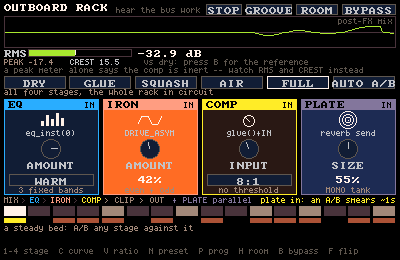
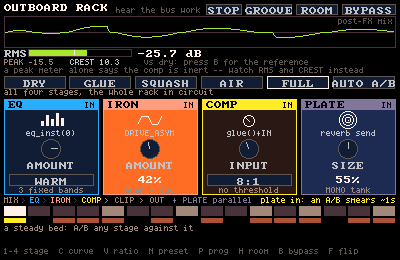
a stereo tank was not worth building, and two of my own findings were harness faults
Stereo reverb: priced (+103 KB, +0.010% of one core) and rejected. A chorus after
a reverb on a send-bus already recovers 97% of the width a mono send destroys
(0.9999 dry, 0.5569 through the mono send, 0.9710 recovered), and reverb_plate's
two-pickup approach has since landed the static-width half for 4.3 KB/tank. The
recipe is now in effects-recipes.md, where it should have been from the start.

Transformer saturation: worth adding as a DRIVE_VOICE_XFMR voice, about ten lines
in an existing extensible slot with no new state. Prototyped offline rather than by
patching the shared engine: it saturates 80 Hz as hard as a soft-clip and leaves
2 kHz 49 dB cleaner, which no existing mode does.

FET program dependence: reachable from cart-land with no engine change by riding
FXMOD_DRIVE. Wire verified, perceptual claim still a LISTEN item. The gotcha that
fx_mod OVERWRITES the param rather than offsetting it is now written down.

Two withdrawals, left visible rather than quietly edited, because how they failed
is the useful part:
  - the "IRON bypass regressed" finding was my harness, not the engine. Two renders
    that did not share their prelude. bypass-check.js passes all 8 checks.
  - the "EQ moved RMS by 0.01 dB" figure could not be reproduced. That comparison
    had also changed the knob values, so it was never levels-only.

Three homes carried a claim that went false the moment glue gained makeup gain and
[…]

diff --git a/tools/carts/outboard.c b/tools/carts/outboard.c
@@ -276,10 +276,13 @@ void update(void) {
     // Meter the REAL post-FX mix, and meter it THREE ways, because no one of them is the answer.
     // RMS is what MOVES for every stage here. PEAK mostly does not, which is the trap: a peak meter
     // shows the comp doing nothing. CREST (peak minus RMS) is the number that exposes what glue()
-    // actually is: at the ALL ratio it takes ~4 dB of RMS with the peak pinned, so the crest RISES.
-    // A compressor is supposed to do the opposite. glue is a fast-attack slow-release DUCKER with no
-    // threshold (you drive it with INPUT, which is the whole FET front panel), and that is a
-    // character, not level control.
+    // actually IS -- and that answer CHANGED on 2026-08-19, so this comment deliberately carries no
+    // figure: glue gained automatic makeup gain and a program-dependent second release stage that
+    // day, and it went from raising the crest (a ducker: it took RMS while the peak sat still) to
+    // lowering it by several dB (a compressor: it holds the peak down and gives the level back).
+    // Both measurements, dated, live in docs/design/analog-outboard-chain.md 2b and 2d -- read them
+    // there rather than trusting a number frozen in a comment. What does NOT change: it has no
+    // THRESHOLD, so you drive it with INPUT, which is the whole FET front panel.
     scope_read(scope, SCOPE_N);
     float pk = 0.0f, sq = 0.0f;
     for (int i = 0; i < SCOPE_N; i++) {

diff --git a/docs/design/analog-outboard-chain.md b/docs/design/analog-outboard-chain.md
@@ -5,8 +5,22 @@
 > RMS/PEAK/CREST metering, with a 53-assertion `spec()`) · and
 > [`tools/bypass-check.js`](../../tools/bypass-check.js), the reconvergence oracle §9's last item asked
 > for, which then corrected two of this doc's own claims (§2c-bis, §4b). A second consumer,
-> `sideman`, pins EQ+IRON as an organ cabinet. The **stereo plate** is the one piece that needs new
-> DSP and is still open (§6).
+> `sideman`, pins EQ+IRON as an organ cabinet.
+>
+> **§6 and §6b are the follow-up research, and §6 REVERSED this doc's original verdict:** a stereo
+> reverb tank is **not** worth building (a chorus after a reverb already recovers 97% of the width a
+> mono send destroys), and `reverb_plate()`'s two-pickup approach has since landed the static-width
+> half for 4.3 KB/tank. What IS worth adding is a **transformer** drive voice (§6b). Every table here
+> is a measurement of a live engine: see the drift warning below.
+
+<!-- de:driftable watch="numbers,decisions" -->
+
+> **⚠ Every table in this doc is a MEASUREMENT of a live engine, not a spec.** They have already
+> drifted once inside a single day: §2b was true in the morning and §2d re-measures it after `glue`
+> gained makeup gain that afternoon. Re-run before quoting a number, and prefer the reproducer named
+> beside each table. Two claims that were once here have been **withdrawn** rather than quietly
+> edited, because how they failed is the useful part: an "EQ moved RMS by 0.01 dB" figure (§2c-bis)
+> and an "IRON bypass regressed" finding (§2d), both harness faults, not engine behaviour.
 
 The target, taken from the marketing copy of a commercial plug-in bundle, because it is a good
 statement of what players expect a "mix bus" to be:
@@ -30,11 +44,11 @@ carts and apps cannot drift.
 
 | the claim | the shipped primitive | honest? |
 |---|---|---|
-| **snappy FET compressor** | `glue(bus, amount, atk_ms, rel_ms)` (`runtime/sound.h`, `sc_apply`) | **partly, and not in the way the word "compressor" implies: see §2 and the measurement in §2b.** A peak follower, `gain = 1 - amount*env`, real attack/release in ms, self-keyed. It DUCKS (takes ~4 dB of RMS at the hardest setting) but does **not** control peaks: measured, the crest factor goes UP. No threshold, no ratio, no knee, no makeup, no program-dependent release. |
+| **snappy FET compressor** | `glue(bus, amount, atk_ms, rel_ms)` (`runtime/sound.h`, `sc_apply`) | **yes now, and this row changed inside one day — read §2b then §2d.** A self-keyed peak follower with real attack/release in ms. It USED to only duck (RMS down, peak unmoved, crest *rising*), which is a character rather than level control; since it gained **automatic makeup** and a **program-dependent second release stage** it takes 6.3 dB off the crest and hands +2.3 dB of RMS back, which is a compressor. Still missing: threshold (correctly — a FET unit has none, §2) and a knee. |
 | **warm British equalizer** | `eq(lo, mid, hi)` ±12 dB, plus `eq_inst(1, …)` + `FX_INST(FX_EQ,1)` for a second EQ in the same chain | **partly.** Bands are FIXED (<80 Hz / 80 Hz‑6 kHz / >6 kHz). No frequency select, no Q, no proportional-Q, no Pultec-style overlapping boost+cut on one band. |
-| **lush German plate reverb** | Schroeder core (4 comb + 2 allpass + predelay): `reverb(size, damp)`, `reverb_bus(tank, size, damp)`, `reverb_bus_fx()` to shape the tail | **partly, and this is the weak stage.** The tank is **MONO**. A plate's whole signature is a wide, dense, bright tail with no room geometry; mono removes the "lush". |
+| **lush German plate reverb** | Schroeder core (4 comb + 2 allpass + predelay): `reverb(size, damp)`, `reverb_bus(tank, …)`, `reverb_bus_fx()` to shape the tail — plus `reverb_plate(amount)` + `reverb_plate_width(x)` since 2026-08-19 | **was the weak stage; largely answered (§6).** The bare tank is **MONO**, and a mono send does not just fail to widen a stereo mix, it **halves** it (0.9999 → 0.5569). Two fixes now exist: `reverb_plate` gives dense/bright/low-cut plus **static** width from two pickups (0.7400), and a chorus after a reverb send-bus gives **0.9710**. So "lush" is reachable; "German" and any named device still are not. |
 | **field-effect transistor distortion** | `drive_insert(amount, DRIVE_*, mix)` | **as a waveshaper, yes. As a device model, no.** No bias point, no hysteresis, no frequency-dependent saturation. |
-| **odd and even harmonic coloration** | `DRIVE_SOFT`/`DRIVE_HARD` are symmetric (odd only); `DRIVE_ASYM` is documented in `sound.h` as the "even-harmonic tube" | **yes. This one is fully backed**, and it is the single most defensible sentence in the copy. |
+| **odd and even harmonic coloration** | `DRIVE_SOFT`/`DRIVE_HARD` are symmetric (odd only); `DRIVE_ASYM` is documented in `sound.h` as the "even-harmonic tube" | **yes, and still the most defensible sentence in the copy — but read "even-harmonic" carefully.** Measured (§6b): a symmetric shaper puts h2 at about **-100 dB**, i.e. nothing, while `DRIVE_ASYM` puts it at about **-37 dB**, so the even content is real and 60 dB above the symmetric baseline. It is **not dominant**: at drive 0.35–0.9 the *third* harmonic leads it by 25–29 dB (within 9 dB only at low drive). Curiously `DRIVE_VOICE_TS` is more even-dominant at 80 Hz than the "even-harmonic tube" is, because it only clips what survives its bass split. |
 | **transformer saturation** | nothing today. But §6b prototypes a `DRIVE_VOICE_XFMR` that fits an existing extensible slot for ~10 lines and no new state | **no today, cheaply yes tomorrow.** The physics (low frequencies saturate first, the inverse of a Tube Screamer) measured a 49 dB frequency dependence no existing mode has. Still a voicing, never a model: no B-H hysteresis. |
 | **non-linearities that glue a mix** | `glue` + the always-on master soft-clip | **yes, as behaviour.** |
 | **"meticulously modeled"** | | **no.** Every stage here is a voicing over shared DSP. That is the house rule (ADR-0015), not a defect, but it is not modelling and must not be sold as modelling. |
@@ -70,6 +84,8 @@ one exponential coefficient) and the **knee**.
 The above is the encouraging half. Here is the number, rendered off the `outboard` cart's own loop
 (`play.js --wav`, `wav-analyze.js`), all other stages out:
 
+<!-- de:driftable cmd="node tools/play.js outboard ... --wav && node tools/wav-analyze.js" as-of="2026-08-19" inputs="runtime/sound.h,runtime/outboard.h,tools/carts/outboard.c" -->
+
 | | peak | RMS | crest |
 |---|---|---|---|
 | dry (rack out) | -0.06 dBFS | **-15.39 dBFS** | 15.34 dB |
@@ -95,36 +111,6 @@ ABSOLUTE level**, so a quiet mix compresses less. At the default 8:1 with a mode
 input gain dominates and RMS goes *up* ~3.4 dB while the peaks duck; at the ALL ratio the ducking
 dominates and RMS goes *down* ~3.8 dB. Both are the same stage behaving correctly. The INPUT control
 is not a convenience, it is how the stage is played.
-
-## 2d. ⚠ The engine moved under this measurement (2026-08-19, same day)
-
-§2b and §2c were measured in the morning. By the afternoon a parallel change had given `glue` **two
-things this doc had listed as missing**: automatic makeup gain (a slow running average of the gain the
-stage applied, `gavg`, ~1.5 s) and a **program-dependent second release stage** (`env2`/`atk2`/`rel2`,
-the deeper of the two recoveries winning). Re-measured on the same loop, same scripts:
-
-| | peak | RMS | crest |
-|---|---|---|---|
-| rack out | -0.20 dBFS | -21.02 dBFS | 20.82 dB |
-| COMP in, 8:1 (default) | | -20.63 dBFS | 20.43 dB |
-| COMP in, ALL | -4.20 dBFS | **-18.70 dBFS** | **14.50 dB** |
-
-**That is a compressor.** At the ALL ratio it now takes **6.3 dB off the crest factor** and hands
-**+2.3 dB of RMS** back, where the morning's measurement had crest *rising* by 3.9 dB and RMS falling
-3.8 dB. So §2b's headline (a ducker, not a limiter) and §5's gap 2 (no makeup) both describe the
-engine **before** that change. They are kept above because the before/after IS the evidence that the
-change did what it set out to do, and because a UI on this stage should still meter RMS.
-
-**One open regression, found by re-running §4's test and reproducible (with the determinism control
-clean: the same script twice is byte-identical).** On the current engine the **IRON** stage no longer
-returns to bit-exact when switched out. It reconverges about **3 seconds later** (last differing
-sample 4.076 s for a switch at 1.067 s), where in the morning it was exact at the switch. Isolated
-with identical plate timing in both renders, so it is not the reverb tail. **Mechanism not pinned
-down**, and it is not the obvious suspect: `glue(bus, 0, …)` still returns exactly 1.0 (`g = 1 - 0*e`,
-and `gavg` is initialised to 1.0 at `sound.h:6107`, so the makeup is exactly unity), which the COMP
-row confirms by still reconverging at the switch. Whoever owns the `glue`/plate change should run
-`tools/bypass-check.js` (the oracle built for exactly this, from §9's open item) before calling it
-done.
 
 ## 2c. Give the rack headroom, or none of it works
 
@@ -174,6 +160,45 @@ reproduced** and should not be quoted. What is true, and is enough: the EQ's con
 the three-stage chain loses **2.8 dB** of its lift, and the crest it leaves collapses from 14.7 dB to
 7.7 dB. The peak is pinned *before the rack starts*, so what you hear at HOT is mostly the soft-clip
 and not the rack. The practical rule is unchanged; only the number was wrong.
+
+---
+
+
+---
+
+## 2d. ⚠ The engine moved under this measurement (2026-08-19, same day)
+
+§2b and §2c were measured in the morning. By the afternoon a parallel change had given `glue` **two
+things this doc had listed as missing**: automatic makeup gain (a slow running average of the gain the
+stage applied, `gavg`, ~1.5 s) and a **program-dependent second release stage** (`env2`/`atk2`/`rel2`,
+the deeper of the two recoveries winning). Re-measured on the same loop, same scripts:
+
+| | peak | RMS | crest |
+|---|---|---|---|
+| rack out | -0.20 dBFS | -21.02 dBFS | 20.82 dB |
+| COMP in, 8:1 (default) | | -20.63 dBFS | 20.43 dB |
+| COMP in, ALL | -4.20 dBFS | **-18.70 dBFS** | **14.50 dB** |
+
+**That is a compressor.** At the ALL ratio it now takes **6.3 dB off the crest factor** and hands
+**+2.3 dB of RMS** back, where the morning's measurement had crest *rising* by 3.9 dB and RMS falling
+3.8 dB. So §2b's headline (a ducker, not a limiter) and §5's gap 2 (no makeup) both describe the
+engine **before** that change. They are kept above because the before/after IS the evidence that the
+change did what it set out to do, and because a UI on this stage should still meter RMS.
+
+**A regression I reported here was my own harness, not the engine.** This section originally claimed
+the IRON stage had stopped returning bit-exact when switched out (reconverging ~3 s late), reproducible
+with the determinism control clean. `tools/bypass-check.js` says otherwise: **IRON OUT is bit-exact
+0.0 ms after the switch**, and all 8 direction-by-stage checks pass. The fault was in my scripts, and
+it is exactly the flaw §4b/§4c build the tool to prevent: my reference and variant runs **did not share
+their prelude** (the reference switched IRON out at frame 22, the variant at frame 60), so the two runs
+had already accumulated different state before the window I was measuring. A "reproducible" result and
+a clean determinism control prove only that the harness is deterministic, not that it is measuring the
+right thing. Use the oracle, not hand-rolled scripts.
+
+For the record, the one row in that oracle that is *not* bit-exact is **COMP IN**, which reconverges by
+residual (below -60 dBFS within 3.5 s) rather than exactly — and that is `glue`'s new makeup gain doing
+what it should: `gavg` is a ~1.5 s running average, so a re-engaged comp carries its learned makeup for
+a few seconds. Expected, and the tool records it rather than hiding it.
 
 ---
 
@@ -381,6 +406,8 @@ reversed that.** The recipe already exists and nobody had written it down.
 Probe cart `rvbwidth` (two plucks panned hard L/R, one key raising the shared send), read with
 `tools/stereo-check.js`, which is the only gate in the repo that does not average L and R at the door:
 
+<!-- de:driftable cmd="node tools/stereo-check.js" as-of="2026-08-19" inputs="runtime/sound.h,tools/carts/rvbwidth.c" -->
+
 | routing | width (side/mid) | correlation |
 |---|---|---|
 | dry, no reverb | **0.9999** | 0.0001 (fully decorrelated) |
@@ -480,6 +507,9 @@ level the flux is inversely proportional to frequency: **low frequencies saturat
 exact inverse of the Tube Screamer voice, which keeps the bass clean. Prototyped **offline** (a
 standalone harness carrying the verbatim `drive_shape` body, so the shared engine was never patched)
 and measured with `harmonic-spec.js`, 0.7-amplitude sine, third harmonic relative to the fundamental:
+
+<!-- de:driftable watch="numbers" as-of="2026-08-19" inputs="runtime/sound.h" -->
+<!-- (no cmd: these come from an offline prototype harness, not a committed tool — see the prose above) -->
 
 | voice | at 80 Hz | at 2000 Hz | frequency dependence |
 |---|---|---|---|

diff --git a/docs/STATUS.md b/docs/STATUS.md
@@ -45,23 +45,32 @@ _Last updated: 2026-08-19 — **Tiny Pedalboard shipped to the App Store and is 
   effects we already ship, per [0015](decisions/0015-effects-are-recipes-not-primitives.md), so no new
   DSP. The bench is the `outboard` cart: a drum machine and a bassline loop themselves while you
   switch each stage in and out. **Three findings the build produced, all in
-  [analog-outboard-chain.md](design/analog-outboard-chain.md):** (a) `glue()` is a fast-attack
-  slow-release **DUCKER, not a limiter** — at the hardest ratio it takes ~3.8 dB of RMS while the PEAK
-  does not move and the crest factor *rises*, so a UI on it must meter RMS or the stage reads as
-  inert; (b) **the bypass is measured, not asserted** — and the measurement is now the committed oracle
-  `tools/bypass-check.js` (30-answer `--selfcheck`, in repo-doctor), which promptly corrected this
-  entry: switching a stage OUT is bit-exact on the switching sample for EQ and IRON, within one LSB
-  for COMP (a nulled `eq_inst` is an ALGEBRAIC null, not a float-exact one) and 3.4 s later for PLATE
-  because a reverb tail is real; switching one back **IN** is a different question nobody had asked,
-  and there the "memoryless" saturation stage is the slow one (300 ms, its wet-path DC blocker) while
-  the EQ is exact. It also found a real bug on its first run (a chain assembled from only the enabled
-  stages left the null inexact for ~2 s; `fx_order` must be set unconditionally, which also means
-  `outboard_apply()` OWNS the master insert order); (c) of the classic "we modeled a FET comp, a British EQ and a German
-  plate" pitch, **odd-and-even harmonic coloration is the one claim fully backed**, and the words to
-  cut are *modeled*, *transistor*, *transformer* and *limiter*. **Open:** a **stereo plate** is the one
-  place new DSP is justified (the tank is mono, which is where "lush" dies; `reverb_spring()` is the
-  precedent and `tools/stereo-check.js` the only gate that can see it), plus makeup gain on `glue()`
-  so the comp A/B can be level-matched.
+  [analog-outboard-chain.md](design/analog-outboard-chain.md):** (a) a UI on the comp must **meter RMS,
+  not peak** — measured, at the hardest ratio `glue` takes **6.3 dB off the crest factor** and hands
+  **+2.3 dB of RMS** back. ⚠ That is the engine as of the SAME DAY's later `glue` change (automatic
+  makeup + a program-dependent second release stage); before it, the stage took 3.8 dB of RMS while the
+  peak did not move and the crest *rose*, so it was a ducker rather than a compressor. The doc keeps
+  both measurements, because the before/after IS the evidence the change worked; (b) **the bypass is
+  bit-exact, verified by sample-diffing two renders** rather than asserted: EQ/IRON/COMP reconverge on
+  the switch, PLATE 3.75 s later because a reverb tail is real. That test found a real bug on its first
+  run (a chain assembled from only the enabled stages left the null inexact for ~2 s; `fx_order` must be
+  set unconditionally, which also means `outboard_apply()` OWNS the master insert order), and it has
+  since been promoted to an oracle, `tools/bypass-check.js`; (c) of the classic "we modeled a FET comp,
+  a British EQ and a German plate" pitch, **odd-and-even harmonic coloration is the closest to backed** —
+  `DRIVE_ASYM` puts h2 60 dB above what a symmetric shaper does, though the *third* harmonic still leads
+  it by 25–29 dB at usable drive — and the words to cut are *modeled*, *transistor*, *transformer* and
+  *limiter*. **Follow-up research (2026-08-19, same doc §6/§6b):** a **stereo reverb tank is NOT worth
+  building** (priced at +103 KB and +0.010% of one core, but a chorus placed after a reverb on a
+  send-bus already recovers 97% of the stereo width the mono tank destroys — measured with the
+  `rvbwidth` probe, and `reverb_plate`'s two-pickup approach then landed the static-width half at
+  4.3 KB/tank); **transformer saturation IS worth adding** as a `DRIVE_VOICE_XFMR` voice (~10 lines in
+  an existing extensible slot, no new state; prototyped offline, it saturates 80 Hz as hard as a
+  soft-clip while leaving 2 kHz **49 dB** cleaner, which no existing mode does); and **FET program
+  dependence is reachable from cart-land with no engine change** by riding `FXMOD_DRIVE` (wire verified,
+  perceptual claim still a LISTEN item). **Open:** the transformer voice, the EQ's fixed bands, and B-H hysteresis
+  (never claim "modelled"). ⚠ An "IRON bypass regressed" finding reported here on 2026-08-19 was
+  **withdrawn**: it was a harness fault (two renders that did not share their prelude), and
+  `bypass-check.js` passes all 8 stage-by-direction checks.
 
 - **A CART CAN BE AN AUDIO EFFECT: `pedalboard` is an `aumf` a DAW inserts on a track** (2026-08-17).
   The host's audio is pulled in the AU render block and pushed through `de_audio_input` into the ring

diff --git a/docs/guides/effects-recipes.md b/docs/guides/effects-recipes.md
@@ -195,6 +195,7 @@ call order; `crush`/`chorus` `mix 0` = bypass. Call `reverb_bus(tank,…)` first
 | crushed lo-fi tail | `reverb_bus_fx(2, FX_CRUSH, 5, 8, 1.0f)` | the plate decays into grainy, aliased 5-bit dust — shoegaze/vaporwave space | `reverbspace` (CRUSH toggle) |
 | dark-tail EQ | `reverb_bus_fx(1, FX_EQ, 0, 0, -8.0f)` | roll the highs off the wet only — a warm tail without dulling the dry source | — |
 | tape-worn reverb | `reverb_bus_fx(2, FX_TAPE, 0.4f, 0.2f, 0.5f)` | the tail wows + saturates like a reverb printed to tape | — |
+| **WIDE tail (stereo reverb, without stereo reverb)** | `reverb_bus_fx(1, FX_CHORUS, 0.45f, 0.55f, 1.0f)` | **the fix for the reverb tank being MONO.** A mono wet is common-mode signal, so a plain send does not just fail to widen a stereo mix, it **halves** it (measured: width 0.9999 → 0.5569). `chorus_process` reads its bus mono but writes **antiphase** taps to L and R, so a chorus after the reverb hands the width back: **0.9710**, and even a chorus subtle enough to be inaudible as an effect gets 0.8356. Costs one tank + one aux bus, and the tail moves slightly (a chorused plate, which is its own famous sound). For static width instead, `reverb_plate()` gives 0.74 on the plain master send. Probe + numbers: [analog-outboard-chain.md §6](../design/analog-outboard-chain.md) | `rvbwidth` (the probe) |
 
 #### reverb as an in-line pedal — `reverb_insert(size, damp, mix)`
 
@@ -401,6 +402,16 @@ glue/cohesion, NOT as a substitute for per-voice tone-shaping (which keeps the p
 | recipe | call | character | used by |
 |---|---|---|---|
 | tube glue | `drive_insert(0.25f, DRIVE_ASYM, 0.5f)` | gentle even-harmonic warmth that fuses a busy mix — the "everything through one amp" cohesion | `modrack` (SAT module) |
+
+> **⚠ "even-harmonic" is true but not dominant.** Measured (`harmonic-spec.js`, 0.7-amplitude sine):
+> a symmetric shaper (`DRIVE_SOFT`/`HARD`) puts h2 at about **-100 dB**, i.e. nothing, while
+> `DRIVE_ASYM` puts it at about **-37 dB** — so the even content is real and 60 dB above the symmetric
+> baseline. But the **third** harmonic still leads it by **25–29 dB** at drive 0.35–0.9 (they are within
+> 9 dB only at low drive). So reach for `DRIVE_ASYM` when you want *some* even-harmonic tilt, not when
+> you want an even-dominant sound. Curiously `DRIVE_VOICE_TS` is more even-dominant at 80 Hz than the
+> "even-harmonic tube" is, because it only clips what survives its bass split. All four `DRIVE_*` curves
+> are **memoryless**, so none of them distorts differently at different frequencies — see
+> [analog-outboard-chain.md §6b](../design/analog-outboard-chain.md) for the transformer voice that would.
 | lo-fi wall | `drive_insert(0.7f+, DRIVE_HARD, 0.85f)` | cranked square-edged crush on the whole bus, drums and all — noise-rock / breakbeat grit | `modrack` (SAT, "Sat bus" preset) |
 | two bus drives (×2) | `drive_insert(...)` (inst 0) + `drive_insert_inst(1, ...)`; chain `{FX_INST(FX_DRIVE,1), …, FX_DRIVE}` | two INDEPENDENT bus drives at different chain spots (Increment F) — an overdrive pedal feeding the amp's own drive (boost → amp stack) | `pedalboard` (the OD pedal + the AMP cabinet) |
 | **Tube Screamer** | `drive_insert(0.6f, DRIVE_ASYM, 1.0f)` + `drive_voice(DRIVE_VOICE_TS, tone)` | the Ibanez TS: bass stays clean/tight, mids soft-clip, the famous MID HUMP cuts through a band — the most-copied overdrive. `tone` 0..1 = dark→bright (the TONE knob), ride it live. `DRIVE_VOICE_NONE` = the plain clip (byte-identical) | `tubescreamer` (OVERDRIVE/TONE/LEVEL + B = A/B the hump) |
@@ -548,6 +559,13 @@ laps the ~2 s buffer → a click). Master output stage; pitch is exact (A4→A3 
 > writeup: [`../design/audio-notes.md`](../design/audio-notes.md) §24.
 
 ## modulating effects — `fx_mod(bus, target, value)` · `instrument_fx_mod(slot, …)` · `fx_lfo(bus, target, rate, depth, center, shape)`
+
+> **⚠ `fx_mod` OVERWRITES the param, it does not offset it.** `FXMOD_DRIVE` writes
+> `drvins_amt[bus][0]` outright (instance 0 only), so a cart that rides it must supply the **whole**
+> value each frame, base included — the amount passed to `drive_insert()` is gone the moment you
+> start riding. This is also the zero-engine-change route to **program-dependent** saturation (dirt
+> that arrives when the mix works hard, the FET-compressor character): ride it from a level you
+> measure with `scope_read()`. See [analog-outboard-chain.md §6b](../design/analog-outboard-chain.md).
 
 Not an effect — the **modulation layer over** effects (ADR 0018). Effects keep their own set-and-hold
 knobs; this RIDES a curated, *sweep-safe* one under a control signal, the way `LFO_TIMBRE` rides an

diff --git a/docs/guides/cart-authoring.md b/docs/guides/cart-authoring.md
@@ -410,7 +410,7 @@ the include, and they never touch engine internals or the tcc symbol table.
 | `sideman.h` | the shared **Wurlitzer Side Man (1959) voice bank**: ten vacuum-tube percussion circuits from the first drum machine ever sold. `sideman_build(base)` = the 12-slot bank, `sideman_fire(base, role, boost, delay)` = the trigger, `SIDEMAN_V[]` = the voice table (pitch/vol/gate/click) so the whole bank can be re-voiced in one place. `SM_*` 10-voice roster: BASS DRUM, TOM TOM I+II, WOOD BLOCK, TEMPLE BLOCK I+II, CLAVES, BRUSH, MARACAS, CYMBAL | a cart that wants the **pre-transistor** drum sound: four of the ten voices are struck WOOD (one damped ring through a resonant band, no noise, no layers, hard front, fast clean decay), the fullness comes from `DRIVE_ASYM` on every voice (a single-ended tube stage brings even harmonics) plus a ~60Hz-6kHz band limit, and the bass drum is soft and round because nobody had invented a kick that hits yet. It deliberately does NOT own the cabinet: the real unit fed the organ's amp, so the cart pins that stage itself with `outboard.h` | `sideman` |
 | `harmony.h` | the shared **HARMONY BRAIN** — one 13-function roman-numeral vocab (`HB_I`…`HB_I7`, `hb_off`/`hb_qual`/`hb_fname`) + per-style weighted transition tables (`HB_BOSSA` = bossa's `TRANS` verbatim, `HB_COCKTAIL` = cocktail's `FNEXT`), **bidirectional**: `hb_pick` (generate — the cart's PRNG stays in charge, pinned seeds byte-exact), `hb_suggest` (the table read *forward*: ranked next-chord options + a one-word reason), `hb_analyze`/`hb_chord_fn` (the *inverse*: chords in a KNOWN key → functions; triads map to their seventh family; out-of-vocab = `-1`, never a guess). `hb_selfcheck()` under `-DDE_SPEC` = its own assertions, call from your `spec()` | a cart that **picks or names chords**: a radio's changes generator, a suggester/analyzer toy, a chord track. Voicing is NOT here — `rad_lead_to` (radio.h) stays the voicing layer. Model + research: [harmony-brain.md](../design/harmony-brain.md) | `bossa`, `cocktail`, `chordwise` |
 | `ampcab.h` | the shared **guitar amp/cabinet voicing table**: five amp voicings as PRESET BUNDLES of effects we already ship (`instrument_drive` + a `DRIVE_*` waveshaper + `instrument_eq` + glue), pinned as the output stage like `leslie` — NOT new DSP. ONE source of truth so the standalone amp and the pinned cabinet agree | a cart that wants a **guitar amp/cab tone** (clean/crunch/lead voicings) without hand-tuning the drive+EQ+glue stack each time. See [effects-bus-architecture.md](../design/effects-bus-architecture.md) §E | `combo`, `pedalboard`, `afrobeat`, `mixbooth`, `wba` |
-| `outboard.h` | the `ampcab.h` move for the **master bus**: the four-stage **analog outboard chain** as one voicing table (EQ = `eq_inst(0)` · IRON = `drive_insert(DRIVE_ASYM)`, the odd+even shaper · COMP = an `eq_inst(1)` INPUT boost feeding `glue()`, because a FET unit has no threshold and is driven by its input · PLATE = `reverb()` + per-slot sends). Bundles, not new DSP | a cart or app that wants **"the analog output chain"** on the mix rather than hand-tuning eq/drive/glue per cart. Carries two measured facts so you do not re-derive them: the comp is **pinned after the inserts** (only EQ→IRON→COMP is achievable), and `glue()` is a **ducker, not a limiter** (~3.8 dB of RMS at the hardest ratio, peak unmoved, crest *rises*, so meter RMS). ⚠ it **owns** the master insert order. See [analog-outboard-chain.md](../design/analog-outboard-chain.md) | `outboard` |
+| `outboard.h` | the `ampcab.h` move for the **master bus**: the four-stage **analog outboard chain** as one voicing table (EQ = `eq_inst(0)` · IRON = `drive_insert(DRIVE_ASYM)`, the odd+even shaper · COMP = an `eq_inst(1)` INPUT boost feeding `glue()`, because a FET unit has no threshold and is driven by its input · PLATE = `reverb()` + per-slot sends). Bundles, not new DSP | a cart or app that wants **"the analog output chain"** on the mix rather than hand-tuning eq/drive/glue per cart. Carries two measured facts so you do not re-derive them: the comp is **pinned after the inserts** (only EQ→IRON→COMP is achievable), and you must **meter RMS on the comp, not peak** (at the hardest ratio `glue` takes 6.3 dB off the crest and gives +2.3 dB of RMS back; it behaved the opposite way before it gained makeup on 2026-08-19, so older prose about it is stale). ⚠ it **owns** the master insert order. See [analog-outboard-chain.md](../design/analog-outboard-chain.md) | `outboard` |
 
 **Reading them:** each header opens with its own manual (why it exists, usage,
 tunables). In the editor they're all listed under the **docs tab → "engine

diff --git a/CLAUDE.md b/CLAUDE.md
@@ -266,12 +266,14 @@ runtime/   studio.h (public API: constants + declarations), studio.c (Raylib imp
                          by its input · PLATE = reverb() + per-slot sends). Reach for it when a cart or app wants
                          "the analog output chain" instead of hand-tuning eq/drive/glue per cart. TWO measured facts
                          it carries so nobody re-derives them: the comp is PINNED after the inserts (so the only
-                         achievable order is EQ→IRON→COMP, never comp-first), and glue() is a fast-attack
-                         slow-release DUCKER, not a limiter — at the hardest ratio it takes ~3.8 dB of RMS while the
-                         PEAK does not move and the crest factor RISES, so METER RMS or you will conclude the stage
-                         is inert. Every stage bypasses BIT-EXACT (verified by diffing two renders; the plate
-                         reconverges 3.5s later, because a reverb tail is real). ⚠ outboard_apply() OWNS the master
-                         insert order. outboard cart; design/analog-outboard-chain.md
+                         achievable order is EQ→IRON→COMP, never comp-first), and METER RMS on the comp, not
+                         peak — RMS is what moves (measured: at the hardest ratio glue takes 6.3 dB off the CREST
+                         and hands +2.3 dB of RMS back; before it gained makeup + a program-dependent release on
+                         2026-08-19 it did the OPPOSITE, so any older prose calling it "a ducker, not a limiter" is
+                         describing the old engine). Every stage bypasses BIT-EXACT (verified by diffing two
+                         renders, not asserted; the plate reconverges ~3.5s later because a reverb tail is real).
+                         ⚠ outboard_apply() OWNS the master insert order. outboard cart + tools/bypass-check.js;
+                         design/analog-outboard-chain.md
              harmony.h   the shared HARMONY BRAIN (bidirectional): 13-function roman-numeral vocab + per-style
                          Markov tables (HB_BOSSA/HB_COCKTAIL, byte-exact) — hb_pick (generate) + hb_suggest
                          (ranked next chords + reason) + hb_analyze (key-in numerals, -1 = honest ?). Voicing
@@ -1277,6 +1279,9 @@ profiler JSON has `workMsAvg/Max`, `calls[]`, `work[]`. Both work in any native 
   whole string as ONE argument (e.g. `profile-fleet.js $SET` → one bogus "cart"; a multi-file `clang
   $FLAGS` → "no such file"). Fix: inline the words, build an **array** `args=(a b c)` + `"${args[@]}"`,
   or force-split with `${=VAR}`. (A recurring agent trip-up — it bit this repo's profiling loops.)
+  **zsh arrays are 1-INDEXED too** (`a=(x y z)` → `$a[1]` is `x`, `$a[0]` is EMPTY), so a bash-style
+  `${a[$i]}` loop from 0 silently reads one slot early and an empty first element — it produced a
+  confidently wrong measurement in this repo rather than an error.
   **zsh also SHADOWS some commands as builtins:** `log show …` hits zsh's `log` builtin, which prints
   "too many arguments" on *stderr* and nothing on stdout — indistinguishable from "nothing was logged",
   which is how it cost two wrong conclusions in one afternoon. Use `/usr/bin/log`.

diff --git a/docs/design/probe-carts.md b/docs/design/probe-carts.md
@@ -41,6 +41,8 @@ tag answers "why does this cart exist?", which stays true forever.
 | `sfxed`, `sfxgen` | does sfx authoring need engine banks (`sfx_def()`)? | **leaning no** — export-as-C works (STATUS #5/#12 direction note, [audio-notes](audio-notes.md) §5.6). Formally still open; see below. |
 | `mt70` | does the MT-70's "2 (sometimes 3) sine oscillators per key" need a second-oscillator engine, or does voice-stacking suffice? | **stacking suffices — no API needed.** All 10 presets render by stacking `note_on`s on separate slots, exact ratios via `note_pitch` floats; the cart ships with an A/B switch (`V`) against `INSTR_MALLET` on the struck presets. **Ear verdict (owner, 2026-06-07): "they sound very different, I like both."** → the two paths are *complementary, not competitors* — the A/B stays a feature, not a bake-off to settle. Soft (not blocking) signal toward eventually building the **Additive engine** (instrument-engines §8.9 names mt70 its first customer): wanted for *range*, not because stacking failed. The deferred §12 gap 2b ("second audible oscillator on the generic voice path") stays deferred — mt70 didn't need it. **Validated-by (the rules paying off, with receipts): a whole playable instrument shipped with a *zero-line* `runtime/` diff** — all 3 mt70 commits touch only `tools/carts/mt70.c` + the `.cart.png` + the registry; every symbol it calls (`note_on`/`note_pitch`/`note_vol`, `instrument_filter`, `INSTR_MALLET/SINE/NOISE`, the macros, `tapp`) pre-existed. So this is a clean worked instance of **[ADR-0006](../decisions/0006-library-carts-not-engine.md)** (richness in cart-land, not the kernel), **[decision 0015](../decisions/0015-effects-are-recipes-not-primitives.md)** ("two oscillators" *was* a recipe — voice-stacking — exactly the "prove it can't be one" bar), and the second-customer rule (ship the recipe; let the engine wait for a real second customer). The cart didn't just avoid an engine change — it proved the change isn't *owed*. |
 
+| `rvbwidth` | the reverb tank is **mono** — does a wide tail need a **stereo tank** (new DSP), or can cart-land get there? | **cart-land gets there — no second tank needed.** Two plucks panned hard apart, read with `stereo-check.js`: a mono send **halves** the stereo width (0.9999 → 0.5569), but `reverb_bus_fx(tank, FX_CHORUS, …)` after the reverb recovers **0.9710** of it, because chorus writes antiphase taps to L and R. A second tank was priced at +103 KB and +0.010% of one core and **rejected as unnecessary**, which also vindicates [`stereo.md`](stereo.md)'s original call that width is "NOT new API, it's a recipe". ⚠ Nuance: `reverb_plate()` + `reverb_plate_width()` *did* land separately (2026-08-19) as the **two-pickup** variant — extra taps on the existing comb lines, 4.3 KB/tank — giving **static** width (0.74) plus real plate character on the plain master send. So the probe's verdict holds for the expensive implementation, and the cheap one earned its place on a different axis than width. [`analog-outboard-chain.md` §6](analog-outboard-chain.md) |
+
 ## ✅ Resolved: engine API was needed — the probe became the demo
 
 | Cart | What it proved | API that shipped |
